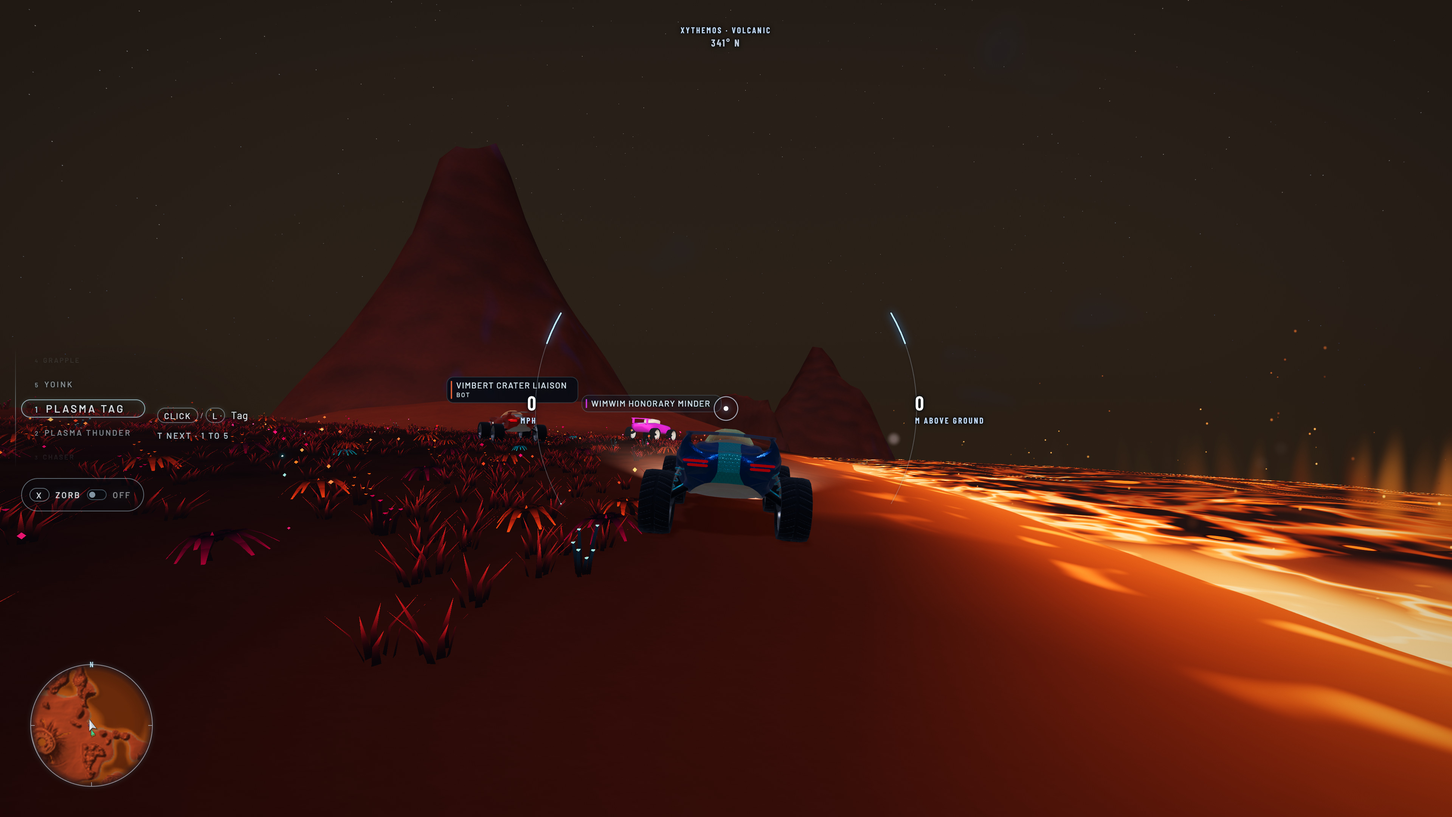
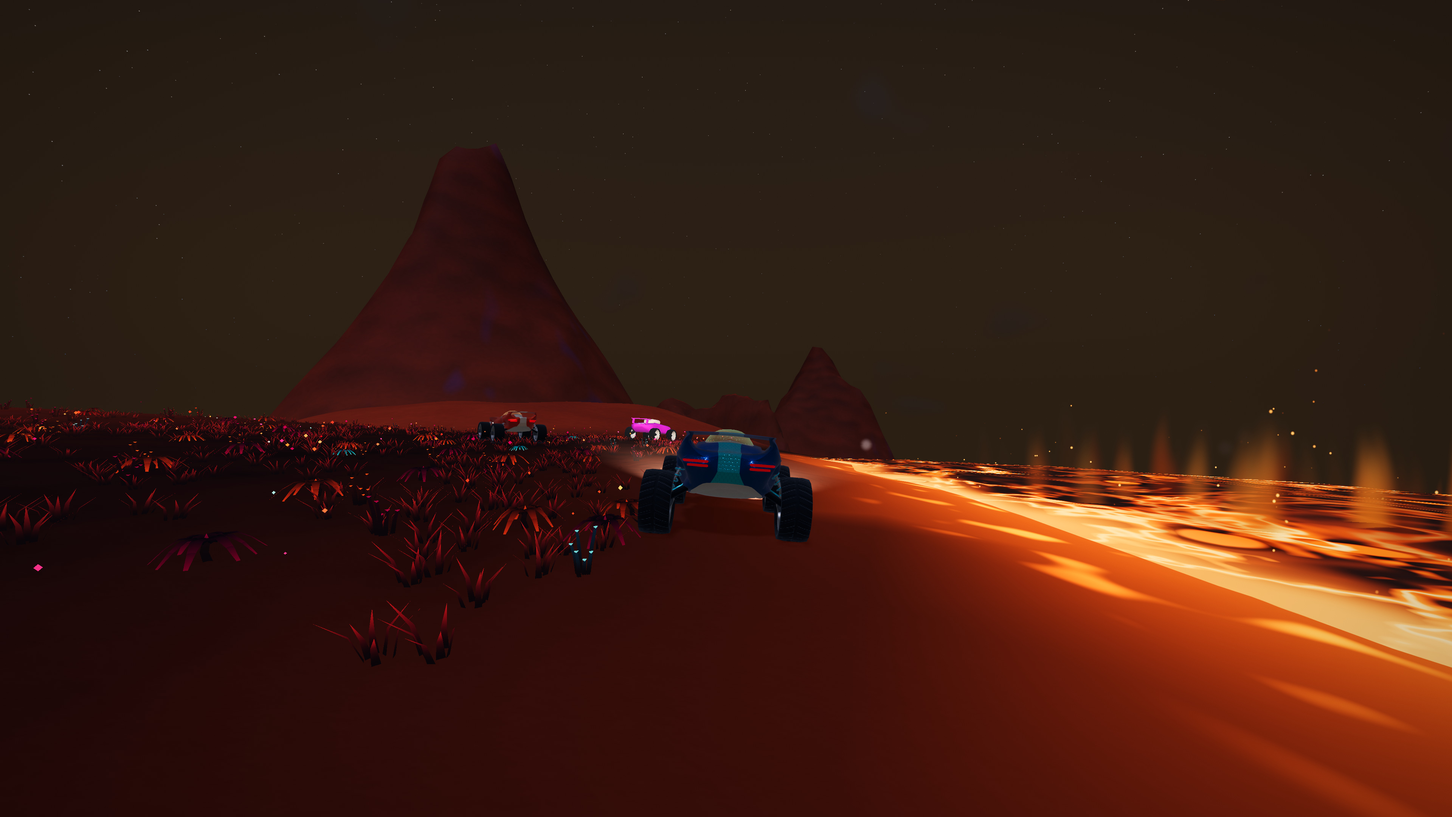
Welcome, revised: 1712's controls, no HUD in the pictures, Welcome in play, no old-game history
- Controls follow v26.11.1712: number keys or a click or tap choose gear (T no longer does),
  Y opens Chat, and the touch diagram is drawn as 1712 lays a phone out (gear rack top left,
  minimap lower left, TAG and WINGS above ZORB and BRAKE, the Panels tab on the right edge).
- The Mire is the Mire. In play, the guide, its tab and both of its buttons say Welcome.
- The story keeps one line, the invitation; the original game's history is gone from the
  guide and from creditsHtml. Credits and licences are unchanged.
- The six pictures are recaptured from v26.11.1711 at Cinematic with the interface hidden
  (tools/showcase.mjs --hud hidden, a local-only option), so they cannot show a HUD the game
  has replaced: 185.4 KB for all twelve files.
- tests/ui/about-in-play.mjs expects Welcome, takes MODES, and if Pause does not take it says
  what the page was doing instead of timing out on the guide's button.

diff --git a/src/ui/welcome/welcome.ts b/src/ui/welcome/welcome.ts
@@ -1,5 +1,5 @@
 /**
- * Welcome: the guide a first-time visitor reads (it was About). This module owns everything
+ * Welcome: the guide a first-time visitor reads (it was About; players see it as Welcome). This module owns everything
  * inside the panel; the panel itself (its shell, title, close control and motion) belongs to
  * whoever hosts it: the lobby sheet (LobbySheet.ts) or the in-play guide (Shell.ts).
  *
@@ -57,15 +57,22 @@ const GEAR_MARKS: Record<keyof typeof GEAR_LABELS, string> = {
 }
 const gearList = (Object.keys(GEAR_LABELS) as (keyof typeof GEAR_LABELS)[]).map(id => `<li><svg viewBox="0 0 24 24" aria-hidden="true" focusable="false">${GEAR_MARKS[id]}</svg><div><strong>${escape(GEAR_LABELS[id])}</strong><span>${escape(GEAR_DESCRIPTIONS[id])}</span></div></li>`).join('')
 
-/** A phone on its side with the touch controls where the game puts them, drawn in SVG. */
-const touchDiagram = `<svg class="welcome-touch" viewBox="0 0 320 150" role="img" aria-labelledby="welcome-touch-title"><title id="welcome-touch-title">A phone on its side: the left thumb drives anywhere on the left half; the action buttons sit on the right; Panels is the tab on the right edge</title>
-  <rect x="2" y="2" width="316" height="146" rx="22" class="wt-frame"/>
-  <circle cx="70" cy="98" r="28" class="wt-stick"/><circle cx="78" cy="90" r="11" class="wt-knob"/>
-  <text x="70" y="44" class="wt-note">Left thumb: drive</text>
-  <g class="wt-buttons"><circle cx="226" cy="78" r="15"/><circle cx="264" cy="78" r="15"/><circle cx="226" cy="116" r="15"/><circle cx="264" cy="116" r="15" class="wt-tag"/></g>
-  <g class="wt-labels"><text x="226" y="78">WINGS</text><text x="264" y="78">BRAKE</text><text x="226" y="116">ZORB</text><text x="264" y="116">TAG</text></g>
-  <rect x="296" y="30" width="12" height="44" rx="6" class="wt-tab"/>
-  <text x="245" y="44" class="wt-note">Buttons</text>
+/**
+ * A phone on its side with the touch controls where the game puts them (TouchControls.ts and
+ * touch-stick.css, as of v26.11.1712): the gear rack top left, the minimap lower left, the
+ * stick wherever the left thumb lands, the four buttons lower right and the Panels tab on the
+ * right edge. Drawn in SVG at the phone's own 844 x 390 points, the buttons a little larger.
+ */
+const touchDiagram = `<svg class="welcome-touch" viewBox="0 0 844 390" role="img" aria-labelledby="welcome-touch-title"><title id="welcome-touch-title">A phone on its side. Top left: the gear rack. Lower left: the minimap. Anywhere on the left half: put your thumb down to drive. Right half: drag to look round. Lower right: TAG and WINGS above ZORB and BRAKE. Right edge: the Panels tab.</title>
+  <rect x="3" y="3" width="838" height="384" rx="48" class="wt-frame"/>
+  <rect x="34" y="22" width="190" height="64" rx="14" class="wt-tab"/><text x="129" y="54" class="wt-name">GEAR RACK</text>
+  <circle cx="82" cy="318" r="46" class="wt-tab"/><text x="82" y="318" class="wt-name">MAP</text>
+  <circle cx="290" cy="250" r="66" class="wt-stick"/><circle cx="310" cy="232" r="28" class="wt-knob"/>
+  <text x="250" y="160" class="wt-note">left half: drive</text>
+  <text x="610" y="160" class="wt-note">right half: look</text>
+  <g class="wt-buttons"><circle cx="672" cy="250" r="34" class="wt-tag"/><circle cx="752" cy="250" r="34"/><circle cx="672" cy="330" r="34"/><circle cx="752" cy="330" r="34"/></g>
+  <g class="wt-labels"><text x="672" y="250">TAG</text><text x="752" y="250">WINGS</text><text x="672" y="330">ZORB</text><text x="752" y="330">BRAKE</text></g>
+  <rect x="800" y="120" width="26" height="100" rx="13" class="wt-tab"/>
 </svg>`
 
 /** The page. Every top-level element is one row (see the contract above). */
@@ -76,7 +83,7 @@ function html(where: WelcomeWhere): string {
 ${figure('wings-glide', 'Off a Badlands ridge on the buggy’s force-field wings.', '(min-width: 720px) 720px, 100vw', 'welcome-hero')}
 <h3>Start in three moves</h3>
 <ol class="welcome-steps">
-  <li><strong>Pick a planet.</strong> ${enter}: volcanoes, lagoons, badlands, swamps and more.</li>
+  <li><strong>Pick a planet.</strong> ${enter}: volcanoes, lagoons, badlands, a mire and more.</li>
   <li><strong>Drive.</strong> ${k('W')}${k('A')}${k('S')}${k('D')} or the arrow keys on a computer, your left thumb on a phone. Everything else can wait.</li>
   <li><strong>Bring a friend.</strong> ${where === 'play' ? 'Press' : 'In a world, press'} ${k('J')} or <em>Invite players</em> for a link and a QR code. Whoever opens it lands in your world. No accounts.</li>
 </ol>
@@ -87,9 +94,9 @@ ${figure('wings-glide', 'Off a Badlands ridge on the buggy’s force-field wings
   <li><strong>Hovercraft</strong><span>Rides a cushion of air over sand, water and lava alike. The shortest way across a lagoon.</span></li>
 </ul>
 <p>Switch machines from the panels whenever you like. On any of them, ${k('X')} closes a Zorb ball around you: roll it, bounce it, shove your friends with it.</p>
-<div class="welcome-pair">${figure('jet-tiny-world-clean', 'High enough in the jet, the world is a ball.', '(min-width: 560px) 360px, 100vw')}${figure('lagoon-hovercraft', 'The hovercraft takes the lagoon.', '(min-width: 560px) 360px, 100vw')}</div>
+<div class="welcome-pair">${figure('jet-tiny-world', 'High enough in the jet, the world is a ball.', '(min-width: 560px) 360px, 100vw')}${figure('lagoon-hovercraft', 'Across the lagoon and up the beach: the hovercraft doesn’t mind which.', '(min-width: 560px) 360px, 100vw')}</div>
 <h3>Gear</h3>
-<p>Five tools ride in the rack on the left. ${k('T')} switches, ${k('L')} or a click uses what you hold; on a phone, tap the rack and press <strong>TAG</strong>. In Explore they are toys. In a match they are tactics.</p>
+<p>Five tools ride in the rack on the left. Pick one with the number keys, or click or tap it in the rack. ${k('L')} or a click in the world uses it; on a phone, <strong>TAG</strong> does. In Explore they are toys. In a match they are tactics.</p>
 <ul class="welcome-gear">${gearList}</ul>
 <h3>Ways to play</h3>
 <dl class="welcome-modes">
@@ -109,12 +116,13 @@ ${figure('canyon-convoy', 'Tag is better with company.', '(min-width: 720px) 720
       <li><span>${k('Space')}</span>wings, or hover and flight in the jet</li>
       <li><span>${k('E')}${k('Q')}</span>jet: climb, descend</li>
       <li><span>${k('L')}<i>or</i>${k('click', 'Mouse click')}</span>use gear</li>
-      <li><span>${k('T')}</span>switch gear</li>
+      <li><span>${k('1')}<i>to</i>${k('5')}</span>choose gear</li>
       <li><span>${k('X')}</span>Zorb ball</li>
       <li><span>${k('click', 'Mouse click')}</span>capture the mouse to look round</li>
       <li><span>${k('C')}</span>camera views</li>
       <li><span>${k('H')}</span>this vehicle’s controls</li>
       <li><span>${k('J')}</span>invite</li>
+      <li><span>${k('Y')}</span>chat</li>
       <li><span>${k('I')}</span>interface: full, driving, hidden</li>
       <li><span>${k('Esc')}</span>free the mouse, open the panels</li>
     </ul>
@@ -125,8 +133,9 @@ ${figure('canyon-convoy', 'Tag is better with company.', '(min-width: 720px) 720
     <ul class="welcome-keys">
       <li><span>Left half</span>drive: put your thumb down anywhere and push</li>
       <li><span>Right half</span>drag to look round</li>
-      <li><span><b class="welcome-pill">TAG</b></span>use the gear in the rack</li>
-      <li><span><b class="welcome-pill">Panels</b></span>vehicle, game mode and world</li>
+      <li><span>Gear rack</span>tap a gear to choose it</li>
+      <li><span><b class="welcome-pill">TAG</b></span>use it: hold, and drag to aim</li>
+      <li><span><b class="welcome-pill">Panels</b></span>vehicle, game mode, world and chat</li>
     </ul>
   </section>
 </div>
@@ -140,11 +149,10 @@ ${figure('lava-night', 'Night on the volcanic world: the sea is lava.', '(min-wi
   <li><strong>Quality.</strong> The game picks a level for your device and adjusts as you play. Set it yourself in Settings, then Graphics.</li>
   <li><strong>Left-handed touch.</strong> Swaps the driving thumb to the right. Settings, then Controls.</li>
 </ul>
-${figure('swamp-river', 'A river through the Methane Swamp.', '(min-width: 720px) 720px, 100vw')}
-<h3>The story</h3>
-<p>Aubrey Falconer’s Mars Explorer put flying cars, volcanoes and vehicle tag in one place, and a community stayed for years to explore and build together. Syn3h carries that invitation on: land somewhere unfamiliar, learn what your machine can do, and find your own reasons to stay.</p>
+${figure('swamp-river', 'A river through the Mire.', '(min-width: 720px) 720px, 100vw')}
 <h3>Made, not shipped</h3>
 <p>Almost nothing you see or hear is a file. The terrain grows from a seed and wraps around a small planet. The sky is computed from how light scatters. The vehicles are built in code, the engines are synthesised, and the music is composed while you play. The pictures on this page are the exception: they load only when you open it.</p>
+<p class="welcome-close">Land somewhere unfamiliar, learn what your machine can do, and find your own reasons to stay.</p>
 ${aboutLinksHtml}
 ${licencesHtml}
 `

diff --git a/src/ui/data/credits.ts b/src/ui/data/credits.ts
@@ -15,8 +15,6 @@ export const licencesHtml = `<details class="shell-credits"><summary>Credits & l
 <li>ws contributors: development room server, <a href="/brand/licenses/ws.txt" target="_blank" rel="noopener">MIT</a>.</li></ul>
 <p>Music and sound: all of it is synthesised in your browser as you play. The adaptive score, the vehicle voices, wind, Plasma Tag and every cue are generated; this edition ships no recordings.</p>
 <p>The generated names and loading jokes are new browser-edition writing. The original online message list was not recovered.</p></details>`
-export const creditsHtml = `<div class="about-intro"><p class="about-title">A world to drive, fly and make your own.</p>
-<p>Syn3h brings off-road sci-fi vehicles and shared procedural worlds to the browser. Choose a planet, land on it and bring a friend.</p></div>
-<div class="about-columns"><div><section><h3>Explore together</h3><p>Drive to the rim of a volcano. Unfold your buggy's force-field wings and leave the road behind. Bring a friend, pick a distant ridge, and see what happens on the way there.</p><p>Syn3h is a shared sci-fi playground for driving, flying and exploring strange worlds. Take a buggy, jet or hovercraft into the landscape. Play Tag, hold a hill, experiment with gravity, or park together and watch the light change.</p><p>Explore is the default. You can take your time. Finding a route, attempting an absurd jump and enjoying someone's company are all good reasons to be here.</p></section><section><h3>A small world beneath your wings</h3><p>Climb in a jet and watch the landscape curve away beneath you. The mountain that filled your windscreen becomes part of a small world, with water and distant ridges below. Syn3h's tiny-world engine makes that change of perspective part of exploring. Try the ascent on another planet, then return to the ground and choose somewhere you saw from above.</p></section><section><h3>Your first expedition</h3><p>Choose a planet in the galaxy. On a computer, click into the world to look around, use WASD or the arrow keys to drive, and press H for your vehicle's controls. On a phone or tablet, use the thumbstick and the on-screen action buttons.</p><p>Open the panels to change vehicle, choose a game mode or adjust the world. Escape frees the mouse on a computer. Vehicles change where you stand, so try the same journey by ground, water and air. Press J for an invitation and QR code, or share your room's link.</p><p>Start with the shoreline. Find a route to the summit. Open the buggy's wings at a crest, or press X to roll inside a Zorb. Choose Grapple from the gear rack to try a tether: on a computer, click to launch, hold to reel in, and press G to release. On touch screens, use Launch, then Reel in or Let go. The controls panel explains the rest of your gear. Give each experiment enough space to become a good story.</p></section><section><h3>Play your way</h3><p><strong>Explore.</strong> Roam and experiment together, with no score, hill or player marked as it. Gear remains available as toys.</p><p><strong>Tag.</strong> Tag the player who is it to take the role. While you are it, tagging someone earns a point and you keep the role; a ram passes it along. Use the landscape and your vehicle's abilities to find an escape route.</p><p><strong>King of the Hill.</strong> Reach the marked zone and hold it alone to score. More than one vehicle in the zone makes it contested, and scoring pauses until someone gains control.</p><p>Choose the mode in the Game panel. You can return to Explore when the room wants to wander.</p></section></div><div><section><h3>The story</h3><p>Aubrey Falconer's Mars Explorer brought flying cars, volcanoes and vehicle tag together. People stayed to explore and create together, and a community grew around those shared worlds. Syn3h carries that invitation forward: arrive somewhere unfamiliar, learn what your machine can do, and make your own reasons to stay.</p><p>The vision is a place for unhurried exploration and playful engineering. A mountain can be a destination, a launch ramp or somewhere to watch the weather with a friend. You choose what the evening is for.</p></section><section><h3>Under the surface</h3><p><strong>Worlds from seeds.</strong> Terrain is generated from a seed and shared settings. The map wraps, so crossing an edge brings you around the world. A curved rendering gives the landscape its horizon while the simulation works in its own coordinates.</p><p><strong>Light and water.</strong> Atmospheric scattering shapes the sky. Waves have matching visual and physics calculations, with a shared room clock to align them. Rendering quality levels choose which effects your device runs.</p><p><strong>Machines and motion.</strong> Rapier advances the physics at a fixed simulation step. Vehicle controls, gravity and buoyancy turn that motion into different ways of exploring. Three.js draws the world through WebGPU or the WebGL fallback.</p><p><strong>A score made as you go.</strong> A seeded composer writes notes for synthesized instruments. Web Audio produces the music, engines and effects. The soundtrack can respond to the journey rather than repeating a recording.</p><p><strong>Shared space.</strong> A room service exchanges player and world state. Join the same room to explore together. The source is available under the PolyForm Noncommercial licence and the creative work under CC BY-NC-SA 4.0; commercial use requires permission from Terran Labs.</p></section></div></div>
-${aboutLinksHtml}
+/** Everything About carried that the Welcome guide still shows: the links, then credits and licences. */
+export const creditsHtml = `${aboutLinksHtml}
 ${licencesHtml}`

diff --git a/src/ui/welcome/shots.generated.ts b/src/ui/welcome/shots.generated.ts
@@ -3,115 +3,115 @@ export interface WelcomeShot { id: string; alt: string; colour: string; width: n
 export const WELCOME_SHOTS: readonly WelcomeShot[] = [
   {
     "id": "wings-glide",
-    "alt": "A buggy gliding off a sandstone ridge on translucent blue force-field wings, low sun on the Badlands",
-    "colour": "#95a584",
+    "alt": "A buggy gliding on translucent blue force-field wings past a red canyon wall, teal water below",
+    "colour": "#78533e",
     "width": 16,
     "height": 9,
     "files": [
       {
         "width": 640,
         "url": "/welcome/wings-glide-640.webp",
-        "bytes": 14028
+        "bytes": 8736
       },
       {
         "width": 1280,
         "url": "/welcome/wings-glide-1280.webp",
-        "bytes": 36766
+        "bytes": 21486
       }
     ]
   },
   {
-    "id": "jet-tiny-world-clean",
-    "alt": "The jet climbing above a small planet whose whole curved surface fills the bottom of the view",
-    "colour": "#e2c9a1",
+    "id": "jet-tiny-world",
+    "alt": "The jet climbing away from a small planet whose whole curved surface fills the bottom of the view",
+    "colour": "#e1c69e",
     "width": 16,
     "height": 9,
     "files": [
       {
         "width": 640,
-        "url": "/welcome/jet-tiny-world-clean-640.webp",
-        "bytes": 8208
+        "url": "/welcome/jet-tiny-world-640.webp",
+        "bytes": 8848
       },
       {
         "width": 1280,
-        "url": "/welcome/jet-tiny-world-clean-1280.webp",
-        "bytes": 20828
+        "url": "/welcome/jet-tiny-world-1280.webp",
+        "bytes": 22258
       }
     ]
   },
   {
     "id": "lagoon-hovercraft",
-    "alt": "A hovercraft skimming a bright blue lagoon toward low islands",
-    "colour": "#87b3be",
+    "alt": "A hovercraft hovering over a pale sand slope on an island under a blue sky, a buggy on the crest above",
+    "colour": "#939f99",
     "width": 16,
     "height": 9,
     "files": [
       {
         "width": 640,
         "url": "/welcome/lagoon-hovercraft-640.webp",
-        "bytes": 13986
+        "bytes": 4060
       },
       {
         "width": 1280,
         "url": "/welcome/lagoon-hovercraft-1280.webp",
-        "bytes": 36960
+        "bytes": 10860
       }
     ]
   },
   {
     "id": "lava-night",
-    "alt": "A buggy on a dark shore beside a glowing lava sea at night, a volcano behind",
-    "colour": "#3c1d14",
+    "alt": "A buggy on a dark shore beside a glowing lava sea at night, a volcano and other buggies behind",
+    "colour": "#3e1d12",
     "width": 16,
     "height": 9,
     "files": [
       {
         "width": 640,
         "url": "/welcome/lava-night-640.webp",
-        "bytes": 9928
+        "bytes": 8238
       },
       {
         "width": 1280,
         "url": "/welcome/lava-night-1280.webp",
-        "bytes": 30710
+        "bytes": 24750
       }
     ]
   },
   {
     "id": "swamp-river",
-    "alt": "A buggy on green slopes beside a river in the Methane Swamp, under a hazy green sky",
-    "colour": "#97a26a",
+    "alt": "A buggy on green grass above a pale green river in the Mire, hazy hills beyond",
+    "colour": "#98a26c",
     "width": 16,
     "height": 9,
     "files": [
       {
         "width": 640,
         "url": "/welcome/swamp-river-640.webp",
-        "bytes": 12150
+        "bytes": 12366
       },
       {
         "width": 1280,
         "url": "/welcome/swamp-river-1280.webp",
-        "bytes": 34402
+        "bytes": 34346
       }
     ]
   },
   {
     "id": "canyon-convoy",
-    "alt": "Three buggies together on a red canyon floor at golden hour, a jet overhead",
-    "colour": "#a16642",
+    "alt": "Three buggies together on a red canyon floor at golden hour, a jet low overhead",
+    "colour": "#a26240",
     "width": 16,
     "height": 9,
     "files": [
       {
         "width": 640,
         "url": "/welcome/canyon-convoy-640.webp",
-        "bytes": 10682
+        "bytes": 8934
       },
       {
         "width": 1280,
         "url": "/welcome/canyon-convoy-1280.webp",
-        "bytes": 31172
+        "bytes": 24954
       }
     ]
   }

diff --git a/src/ui/Shell.ts b/src/ui/Shell.ts
@@ -247,11 +247,11 @@ export class Shell implements System {
       </div>
       <div class="galaxy-ui" hidden><div class="galaxy-labels" role="group" aria-label="Worlds. Drag to look around; choose a world to go there."></div><nav class="lobby-links galaxy-links" aria-label="Lobby"${LOBBY_LINKS ? '' : ' hidden'}>${LOBBY_LINKS}</nav></div>
     </section>
-    <dialog class="in-play-about" aria-labelledby="in-play-about-title"><header><h2 id="in-play-about-title" tabindex="-1">About Syn3h</h2><button type="button" class="panel-back about-back" aria-label="Back to world"><span aria-hidden="true">←</span><span>Back<span class="about-back-long"> to world</span></span></button></header><div class="in-play-about-body">${aboutHtml()}</div></dialog>
+    <dialog class="in-play-about" aria-labelledby="in-play-about-title"><header><h2 id="in-play-about-title" tabindex="-1">Welcome</h2><button type="button" class="panel-back about-back" aria-label="Back to world"><span aria-hidden="true">←</span><span>Back<span class="about-back-long"> to world</span></span></button></header><div class="in-play-about-body">${aboutHtml()}</div></dialog>
     <aside class="shell-hud" hidden><div class="shell-speed"><strong>0</strong><span>MPH</span></div><div class="hud-scoreboard"></div></aside>
     <nav class="hud-navigation" aria-label="Game menu" hidden><button class="shell-menu-button inspector-toggle" type="button" aria-label="Open the panels" aria-pressed="false"><span aria-hidden="true">≡</span><span class="nav-label"> Panels</span></button></nav>
     <div class="exit-confirm" role="alertdialog" aria-modal="true" aria-labelledby="exit-confirm-title" aria-describedby="exit-confirm-text" hidden><div class="exit-confirm-card"><strong id="exit-confirm-title">Leave this world?</strong><p id="exit-confirm-text">You will return to the galaxy.</p><div class="exit-confirm-actions"><button type="button" class="exit-stay">Stay</button><button type="button" class="exit-leave">Leave world</button></div></div></div>
-    <button type="button" class="pause-about" aria-haspopup="dialog" hidden>About &amp; how to play</button>
+    <button type="button" class="pause-about" aria-haspopup="dialog" hidden>Welcome &amp; how to play</button>
     <button type="button" class="pause-veil" hidden><strong>Paused</strong><span class="pause-how">Click to resume</span><small hidden>The world carries on without you.</small></button>
     <aside class="spawn-help" role="status" hidden><strong>Controls</strong><div></div><small></small></aside>
     <div class="shell-toast" role="status" aria-live="polite" hidden></div>`
@@ -323,7 +323,7 @@ export class Shell implements System {
     const railTop = this.inspector.element.querySelector('.wi-top')!
     // Players & session is a card like the others: same header, chevron, easing and memory.
     const players = document.createElement('div')
-    players.innerHTML = `<div class="rail-player-body" data-search="players session room invite about how to play help connection diagnostics mute audio sound"><button type="button" class="rail-invite">Invite players</button><button type="button" class="rail-about" aria-haspopup="dialog">About &amp; how to play</button>${switchHtml('rail-diagnostics', 'Connection diagnostics')}</div>`
+    players.innerHTML = `<div class="rail-player-body" data-search="players session room invite welcome about how to play help connection diagnostics mute audio sound"><button type="button" class="rail-invite">Invite players</button><button type="button" class="rail-about" aria-haspopup="dialog">Welcome &amp; how to play</button>${switchHtml('rail-diagnostics', 'Connection diagnostics')}</div>`
     players.querySelector('.rail-player-body')!.prepend(this.element.querySelector('.hud-scoreboard')!)
     this.inspector.addCard('players', 'Players & session', players, () => {
       const count = this.element.querySelectorAll('.hud-scoreboard .score-row').length

diff --git a/src/ui/welcome/welcome.css b/src/ui/welcome/welcome.css
@@ -23,6 +23,7 @@
 .welcome-body em { font-style: normal; color: var(--w-ink); }
 /* The hosts' older About rules size every p (lobby-sheet.css, theme-halo.css); these two differ on purpose. */
 .syn3h-shell .welcome-body.welcome-body p.welcome-lede, .welcome-body .welcome-lede { margin-bottom: 22px; font: 300 clamp(19px, 2.6cqi + 11px, 26px)/1.35 'Barlow', sans-serif; letter-spacing: .005em; color: var(--w-ink); max-width: 30ch; }
+.syn3h-shell .welcome-body.welcome-body p.welcome-close, .welcome-body .welcome-close { margin-top: 28px; color: var(--w-ink); font: 300 18px/1.45 'Barlow', sans-serif; max-width: 34ch; }
 .syn3h-shell .welcome-body.welcome-body p.welcome-note, .welcome-body .welcome-note { color: var(--w-soft); font-size: 13.5px; }
 .welcome-body .welcome-kicker { margin: 0 0 14px; font: 500 11.5px/1.2 'Barlow', sans-serif; letter-spacing: .2em; text-transform: uppercase; color: var(--w-soft); }
 
@@ -87,16 +88,17 @@
 .welcome-keys li > span i { font-style: normal; color: var(--w-soft); font-size: 11px; margin: 0 2px; }
 .welcome-keys kbd:first-child { margin-left: 0; }
 
-.welcome-touch { display: block; width: 100%; max-width: 360px; height: auto; margin: 0 0 14px; }
-.welcome-touch .wt-frame { fill: none; stroke: var(--w-line); stroke-width: 1.2; }
-.welcome-touch .wt-stick { fill: none; stroke: var(--w-line); stroke-dasharray: 3 4; }
-.welcome-touch .wt-knob { fill: none; stroke: var(--w-ink); stroke-width: 1.2; }
-.welcome-touch .wt-buttons circle { fill: none; stroke: var(--w-line); stroke-width: 1.1; }
+.welcome-touch { display: block; width: 100%; max-width: 380px; height: auto; margin: 0 0 14px; }
+.welcome-touch .wt-frame { fill: none; stroke: var(--w-line); stroke-width: 3; }
+.welcome-touch .wt-tab { fill: none; stroke: var(--w-quiet); stroke-width: 3; }
+.welcome-touch .wt-stick { fill: none; stroke: var(--w-line); stroke-width: 3; stroke-dasharray: 8 10; }
+.welcome-touch .wt-knob { fill: none; stroke: var(--w-ink); stroke-width: 3; }
+.welcome-touch .wt-buttons circle { fill: none; stroke: var(--w-line); stroke-width: 3; }
 .welcome-touch .wt-buttons .wt-tag { stroke: var(--w-ink); }
-.welcome-touch .wt-tab { fill: none; stroke: var(--w-line); }
-.welcome-touch text { fill: var(--w-dim); font: 500 7px 'Barlow', sans-serif; letter-spacing: .1em; text-anchor: middle; }
-.welcome-touch .wt-labels text { font-size: 6px; fill: var(--w-ink); dominant-baseline: middle; }
-.welcome-touch .wt-note { font-size: 8.5px; fill: var(--w-soft); letter-spacing: .12em; text-transform: uppercase; }
+.welcome-touch text { fill: var(--w-dim); font: 500 22px 'Barlow', sans-serif; letter-spacing: .12em; text-anchor: middle; dominant-baseline: middle; text-transform: uppercase; }
+.welcome-touch .wt-labels text { font-size: 17px; fill: var(--w-ink); }
+.welcome-touch .wt-name { font-size: 18px; fill: var(--w-soft); }
+.welcome-touch .wt-note { font-size: 24px; fill: var(--w-soft); }
 
 .welcome-settings { display: grid; gap: 10px; }
 .welcome-settings li { padding-left: 16px; position: relative; }

diff --git a/src/ui/updates/about.ts b/src/ui/updates/about.ts
@@ -13,8 +13,8 @@ let uid = 0
 /** The HTML for one About: tabs, the About pane and an empty Updates pane. */
 export function aboutHtml(): string {
   const id = `about-${++uid}`
-  return `<div class="about-tabs" role="tablist" aria-label="About">
-      <button type="button" role="tab" id="${id}-tab-about" aria-controls="${id}-about" aria-selected="true" data-about-tab="about">About</button>
+  return `<div class="about-tabs" role="tablist" aria-label="Welcome">
+      <button type="button" role="tab" id="${id}-tab-about" aria-controls="${id}-about" aria-selected="true" data-about-tab="about">Welcome</button>
       <button type="button" role="tab" id="${id}-tab-updates" aria-controls="${id}-updates" aria-selected="false" tabindex="-1" data-about-tab="updates">Updates</button>
     </div>
     <div class="about-pane" role="tabpanel" id="${id}-about" aria-labelledby="${id}-tab-about" data-about-pane="about"></div>
